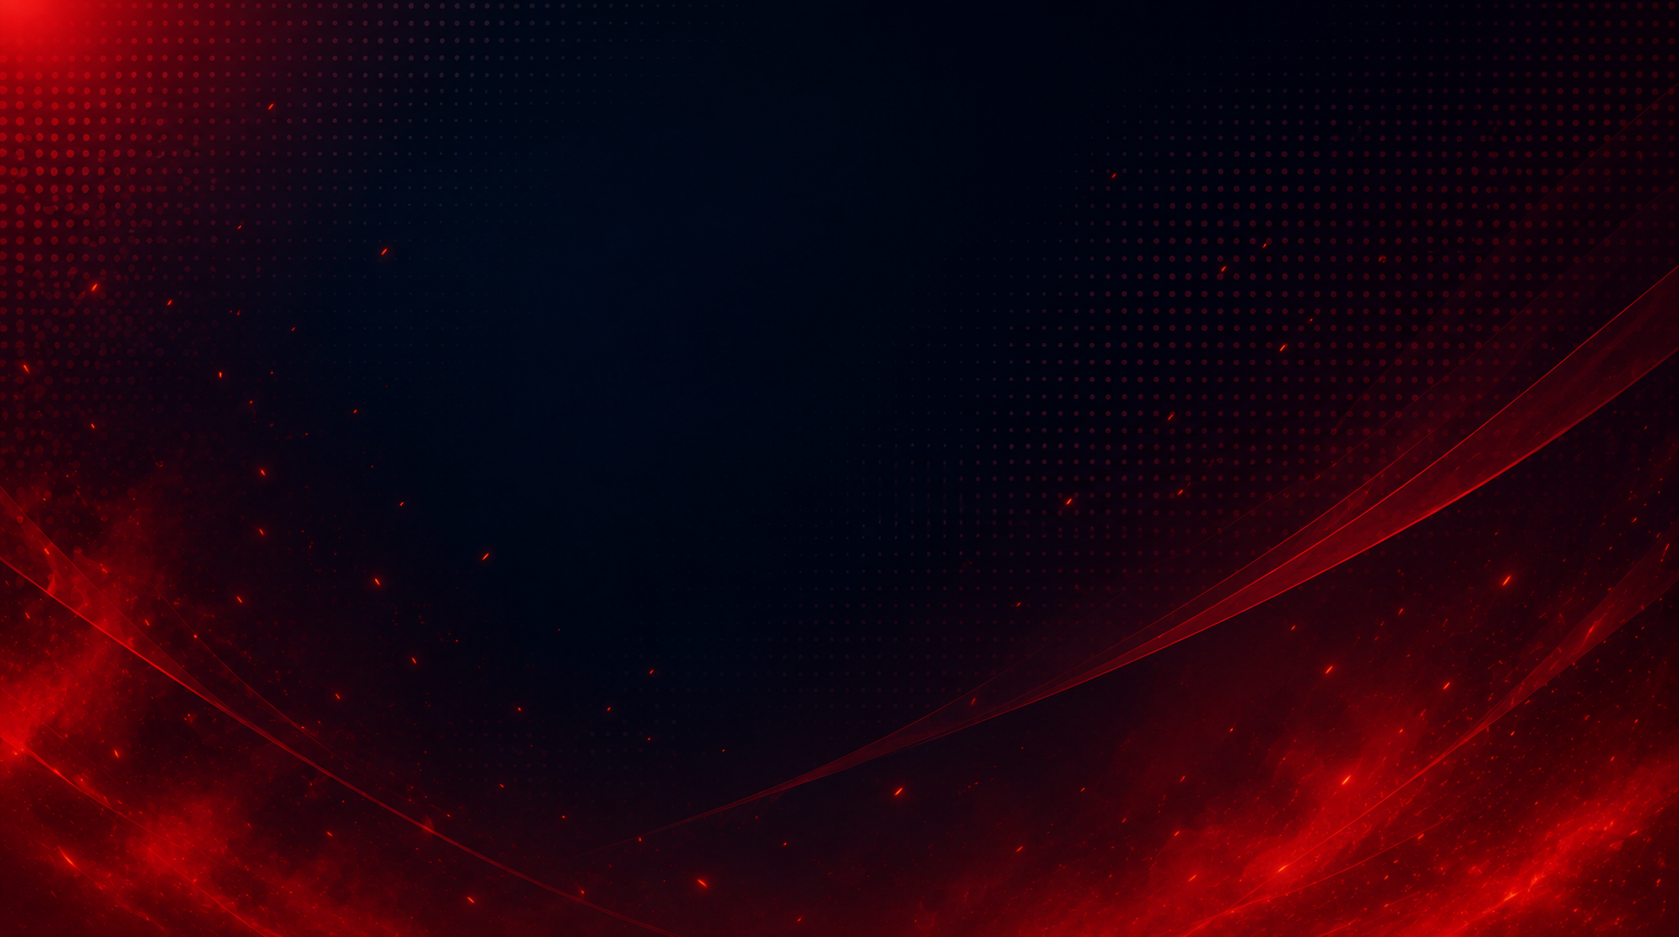
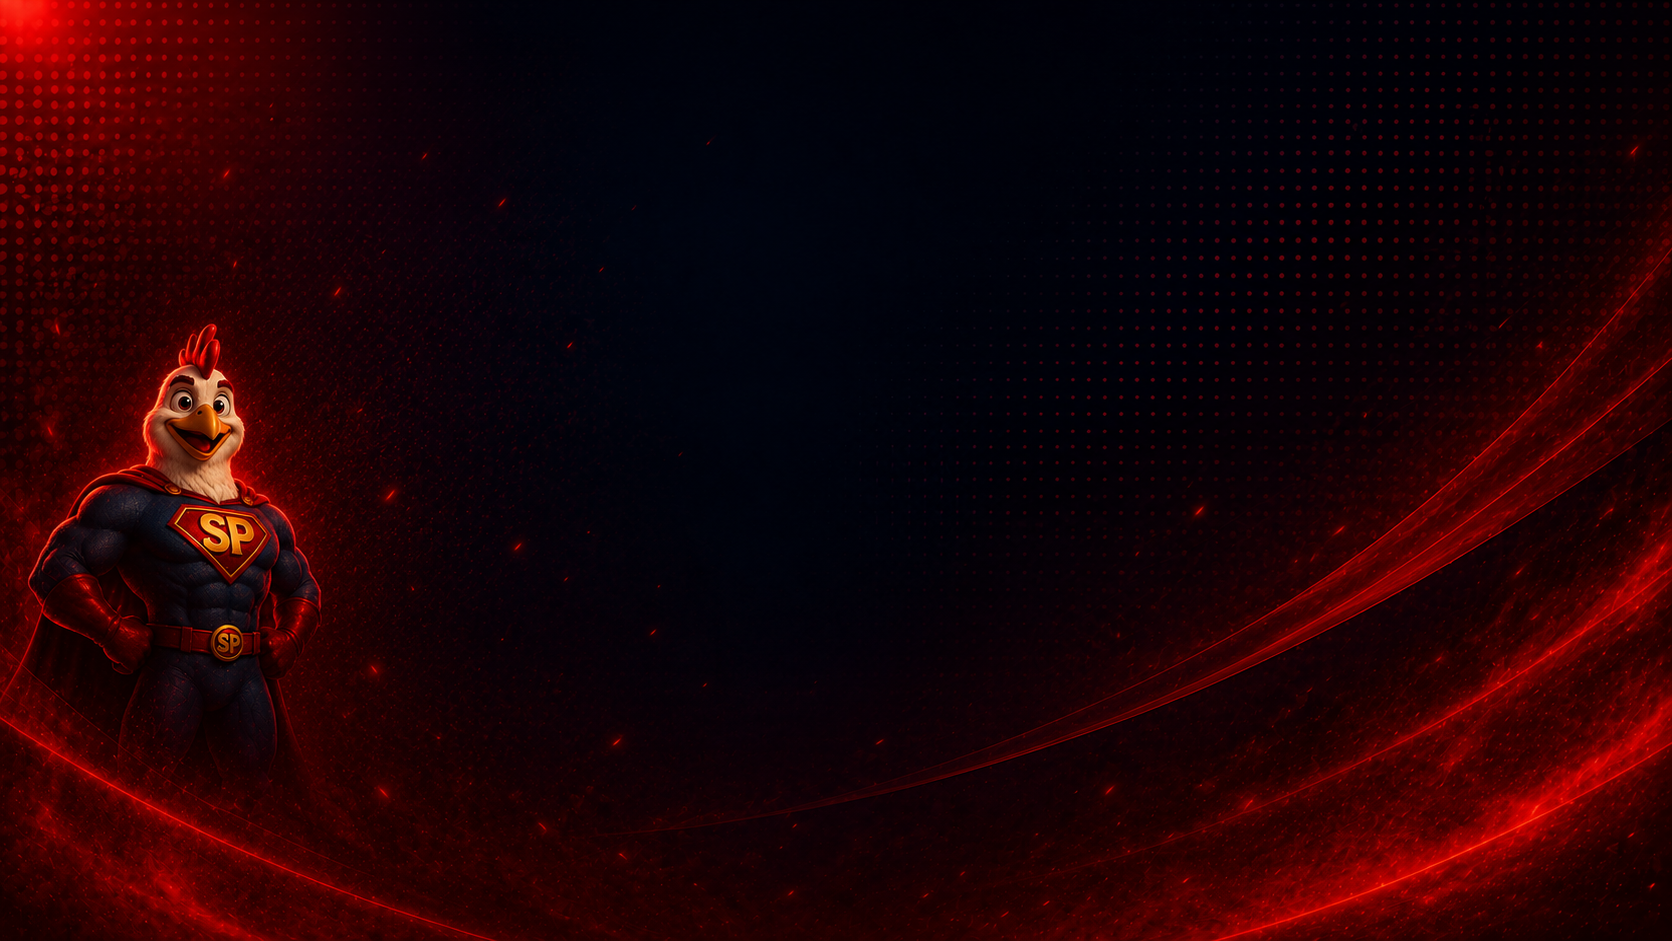
Se agrego el mismo diseño para la página de recuperar clave

diff --git a/frontend/src/paginas/publico/RecuperarClave.jsx b/frontend/src/paginas/publico/RecuperarClave.jsx
@@ -42,18 +42,18 @@ const PasoCorreo = ({ onSiguiente, estaCargando }) => {
   return (
     <div className="w-full max-w-sm mx-auto">
       <div className="text-center mb-8">
-        <div className="w-16 h-16 bg-blue-50 rounded-full flex items-center justify-center mx-auto mb-4">
-          <FaEnvelope className="text-azul-primario text-2xl" />
+        <div className="w-16 h-16 bg-red-500/10 rounded-full flex items-center justify-center mx-auto mb-4">
+          <FaEnvelope className="text-red-500 text-2xl" />
         </div>
-        <h2 className="text-2xl font-bold text-gray-800 mb-2">¿Olvidaste tu contraseña?</h2>
-        <p className="text-gray-500 text-sm">
+        <h2 className="text-2xl font-bold text-white mb-2">¿Olvidaste tu contraseña?</h2>
+        <p className="text-gray-400 text-sm">
           Ingresa tu correo y te enviaremos un código para recuperarla.
         </p>
       </div>
 
       <form onSubmit={handleSubmit(onSiguiente)} className="space-y-5">
         <div>
-          <label className="block text-sm font-medium text-gray-700 mb-1">
+          <label className="block text-sm font-medium text-gray-300 mb-1">
             Correo electrónico
           </label>
           <input
@@ -61,8 +61,8 @@ const PasoCorreo = ({ onSiguiente, estaCargando }) => {
             autoComplete="email"
             placeholder="[email redacted]"
             {...register('correo')}
-            className={`w-full px-4 py-3 border rounded-xl text-sm focus:outline-none focus:ring-2 focus:ring-azul-primario transition-colors
-              ${errors.correo ? 'border-red-400 bg-red-50' : 'border-gray-300 focus:border-azul-primario'}`}
+            className={`w-full px-4 py-3 border rounded-xl text-sm bg-neutral-900 text-white placeholder:text-gray-500 focus:outline-none focus:ring-2 focus:ring-red-600/30 transition-colors
+              ${errors.correo ? 'border-red-500 bg-red-500/10' : 'border-white/10 focus:border-red-600'}`}
           />
           {errors.correo && (
             <p className="mt-1 text-xs text-red-500">{errors.correo.message}</p>
@@ -72,7 +72,7 @@ const PasoCorreo = ({ onSiguiente, estaCargando }) => {
         <button
           type="submit"
           disabled={estaCargando}
-          className="w-full bg-azul-primario hover:bg-azul-secundario text-white py-3 rounded-xl font-semibold text-sm transition-colors duration-200 disabled:opacity-60 disabled:cursor-not-allowed flex items-center justify-center"
+          className="w-full bg-gradient-to-r from-red-600 to-red-700 hover:from-red-500 hover:to-red-600 text-white py-3 rounded-xl font-semibold text-sm transition-colors duration-200 disabled:opacity-60 disabled:cursor-not-allowed flex items-center justify-center"
         >
           {estaCargando ? (
             <>
@@ -85,9 +85,9 @@ const PasoCorreo = ({ onSiguiente, estaCargando }) => {
         </button>
       </form>
 
-      <p className="mt-6 text-center text-sm text-gray-600">
+      <p className="mt-6 text-center text-sm text-gray-400">
         ¿Recordaste tu contraseña?{' '}
-        <Link to="/inicio-sesion" className="font-medium text-azul-primario hover:text-azul-secundario">
+        <Link to="/inicio-sesion" className="font-medium text-red-500 hover:text-red-400">
           Inicia sesión
         </Link>
       </p>
@@ -110,16 +110,16 @@ const PasoClave = ({ onGuardar, estaCargando }) => {
   return (
     <div className="w-full max-w-sm mx-auto">
       <div className="text-center mb-8">
-        <div className="w-16 h-16 bg-green-50 rounded-full flex items-center justify-center mx-auto mb-4">
-          <FaLock className="text-green-600 text-2xl" />
+        <div className="w-16 h-16 bg-red-500/10 rounded-full flex items-center justify-center mx-auto mb-4">
+          <FaLock className="text-red-500 text-2xl" />
         </div>
-        <h2 className="text-2xl font-bold text-gray-800 mb-2">Crea tu nueva contraseña</h2>
-        <p className="text-gray-500 text-sm">Elige una contraseña segura de al menos 8 caracteres.</p>
+        <h2 className="text-2xl font-bold text-white mb-2">Crea tu nueva contraseña</h2>
+        <p className="text-gray-400 text-sm">Elige una contraseña segura de al menos 8 caracteres.</p>
       </div>
 
       <form onSubmit={handleSubmit(onGuardar)} className="space-y-5">
         <div>
-          <label className="block text-sm font-medium text-gray-700 mb-1">
+          <label className="block text-sm font-medium text-gray-300 mb-1">
             Nueva contraseña
           </label>
           <div className="relative">
@@ -128,13 +128,13 @@ const PasoClave = ({ onGuardar, estaCargando }) => {
               autoComplete="new-password"
               placeholder="Mínimo 8 caracteres"
               {...register('nuevaClave')}
-              className={`w-full px-4 py-3 pr-11 border rounded-xl text-sm focus:outline-none focus:ring-2 focus:ring-azul-primario transition-colors
-                ${errors.nuevaClave ? 'border-red-400 bg-red-50' : 'border-gray-300 focus:border-azul-primario'}`}
+              className={`w-full px-4 py-3 pr-11 border rounded-xl text-sm bg-neutral-900 text-white placeholder:text-gray-500 focus:outline-none focus:ring-2 focus:ring-red-600/30 transition-colors
+                ${errors.nuevaClave ? 'border-red-500 bg-red-500/10' : 'border-white/10 focus:border-red-600'}`}
             />
             <button
               type="button"
               onClick={() => setVerClave(!verClave)}
-              className="absolute right-3 top-1/2 -translate-y-1/2 text-gray-400 hover:text-gray-600"
+              className="absolute right-3 top-1/2 -translate-y-1/2 text-gray-500 hover:text-gray-300"
               tabIndex={-1}
             >
               {verClave ? <FaEyeSlash /> : <FaEye />}
@@ -146,7 +146,7 @@ const PasoClave = ({ onGuardar, estaCargando }) => {
         </div>
 
         <div>
-          <label className="block text-sm font-medium text-gray-700 mb-1">
+          <label className="block text-sm font-medium text-gray-300 mb-1">
             Confirmar contraseña
           </label>
           <div className="relative">
@@ -155,13 +155,13 @@ const PasoClave = ({ onGuardar, estaCargando }) => {
               autoComplete="new-password"
               placeholder="Repite la contraseña"
               {...register('confirmarClave')}
-              className={`w-full px-4 py-3 pr-11 border rounded-xl text-sm focus:outline-none focus:ring-2 focus:ring-azul-primario transition-colors
-                ${errors.confirmarClave ? 'border-red-400 bg-red-50' : 'border-gray-300 focus:border-azul-primario'}`}
+              className={`w-full px-4 py-3 pr-11 border rounded-xl text-sm bg-neutral-900 text-white placeholder:text-gray-500 focus:outline-none focus:ring-2 focus:ring-red-600/30 transition-colors
+                ${errors.confirmarClave ? 'border-red-500 bg-red-500/10' : 'border-white/10 focus:border-red-600'}`}
             />
             <button
               type="button"
               onClick={() => setVerConfirmar(!verConfirmar)}
-              className="absolute right-3 top-1/2 -translate-y-1/2 text-gray-400 hover:text-gray-600"
+              className="absolute right-3 top-1/2 -translate-y-1/2 text-gray-500 hover:text-gray-300"
               tabIndex={-1}
             >
               {verConfirmar ? <FaEyeSlash /> : <FaEye />}
@@ -175,7 +175,7 @@ const PasoClave = ({ onGuardar, estaCargando }) => {
         <button
           type="submit"
           disabled={estaCargando}
-          className="w-full bg-azul-primario hover:bg-azul-secundario text-white py-3 rounded-xl font-semibold text-sm transition-colors duration-200 disabled:opacity-60 disabled:cursor-not-allowed flex items-center justify-center"
+          className="w-full bg-gradient-to-r from-red-600 to-red-700 hover:from-red-500 hover:to-red-600 text-white py-3 rounded-xl font-semibold text-sm transition-colors duration-200 disabled:opacity-60 disabled:cursor-not-allowed flex items-center justify-center"
         >
           {estaCargando ? (
             <>
@@ -206,16 +206,16 @@ const IndicadorPasos = ({ pasoActual }) => {
             <div className="flex flex-col items-center">
               <div
                 className={`w-8 h-8 rounded-full flex items-center justify-center text-xs font-bold transition-colors
-                  ${completado ? 'bg-green-500 text-white' : activo ? 'bg-azul-primario text-white' : 'bg-gray-200 text-gray-400'}`}
+                  ${completado ? 'bg-green-500 text-white' : activo ? 'bg-red-600 text-white' : 'bg-neutral-800 text-gray-500'}`}
               >
                 {completado ? '✓' : num}
               </div>
-              <span className={`text-xs mt-1 font-medium ${activo ? 'text-azul-primario' : 'text-gray-400'}`}>
+              <span className={`text-xs mt-1 font-medium ${activo ? 'text-red-500' : 'text-gray-500'}`}>
                 {etiqueta}
               </span>
             </div>
             {i < pasos.length - 1 && (
-              <div className={`w-10 h-0.5 mb-4 transition-colors ${completado ? 'bg-green-400' : 'bg-gray-200'}`} />
+              <div className={`w-10 h-0.5 mb-4 transition-colors ${completado ? 'bg-green-400' : 'bg-white/10'}`} />
             )}
           </div>
         );
@@ -295,37 +295,36 @@ const RecuperarClave = () => {
 };
 
   return (
-    <section className="min-h-screen flex items-center justify-center bg-gray-50 py-12 px-4 sm:px-6 lg:px-8">
+    <section className="min-h-screen flex items-center justify-center bg-cover bg-center bg-no-repeat py-12 px-4 sm:px-6 lg:px-8 fondo-login-registro">
       <div
-        className={`w-full bg-white rounded-2xl shadow-xl overflow-hidden transition-all duration-300
+        className={`w-full rounded-2xl shadow-2xl overflow-hidden border border-white/5 transition-all duration-300
           ${paso === 1 ? 'max-w-4xl' : 'max-w-lg'}`}
       >
-        <div className="md:flex">
+        <div className="md:flex relative">
 
           {/* Panel lateral — solo en paso 1 */}
           {paso === 1 && (
-            <div className="hidden md:block md:w-2/5 bg-azul-primario p-12 text-white">
-              <div className="flex flex-col h-full justify-center">
-                <h2 className="text-3xl font-bold mb-6">Recupera tu acceso</h2>
-                <p className="text-gray-300">
+            <div className="hidden md:block md:w-2/5 bg-black/10 backdrop-blur-lg p-12 text-white relative z-10 overflow-hidden">
+              <div className="absolute top-0 bottom-0 left-0 right-0 border-r border-red-400 bg-linear-to-br from-[#0a111e] via-[#680b0b] to-[#dd1717] rounded-r-[100%_51%] shadow-[3px_0_4px_0_#cc0000,inset_-3px_0_4px_0_#cc0000] pointer-events-none z-0 overflow-hidden"></div>
+              <div className="flex flex-col h-full justify-center relative z-20">
+                <div className="w-16 h-1 bg-yellow-500 mb-6 rounded-full"></div>
+                <h2 className="text-3xl font-bold mb-6 leading-tight">Recupera tu acceso</h2>
+                <p className="text-gray-400 text-sm leading-relaxed">
                   Te enviaremos un código de verificación a tu correo para que puedas crear
                   una nueva contraseña de forma segura.
                 </p>
-                <div className="mt-10">
-                  <div className="w-24 h-2 bg-yellow-400 mb-4" />
-                </div>
               </div>
             </div>
           )}
 
           {/* Contenido principal */}
-          <div className={`w-full ${paso === 1 ? 'md:w-3/5' : ''} py-10 px-8`}>
+          <div className={`w-full ${paso === 1 ? 'md:w-3/5' : ''} py-10 px-8 relative z-10 bg-black/10 backdrop-blur-md`}>
 
             {/* Botón volver (pasos 2 y 3) */}
             {(paso === 2 || paso === 3) && (
               <button
                 onClick={() => setPaso(paso - 1)}
-                className="text-azul-primario hover:text-azul-secundario font-medium mb-6 flex items-center gap-2 text-sm"
+                className="text-red-500 hover:text-red-400 font-medium mb-6 flex items-center gap-2 text-sm"
               >
                 <FaArrowLeft />
                 Volver

diff --git a/frontend/src/index.css b/frontend/src/index.css
@@ -40,8 +40,8 @@
   background-image: url('/Fondo_login_registro.png');
   background-size: cover;
   background-position: center;
-  width: 100%;
-  min-height: 50vh;
+  width: 100vw;
+  min-height: 100vh;
 }
 
 .curva-circular {